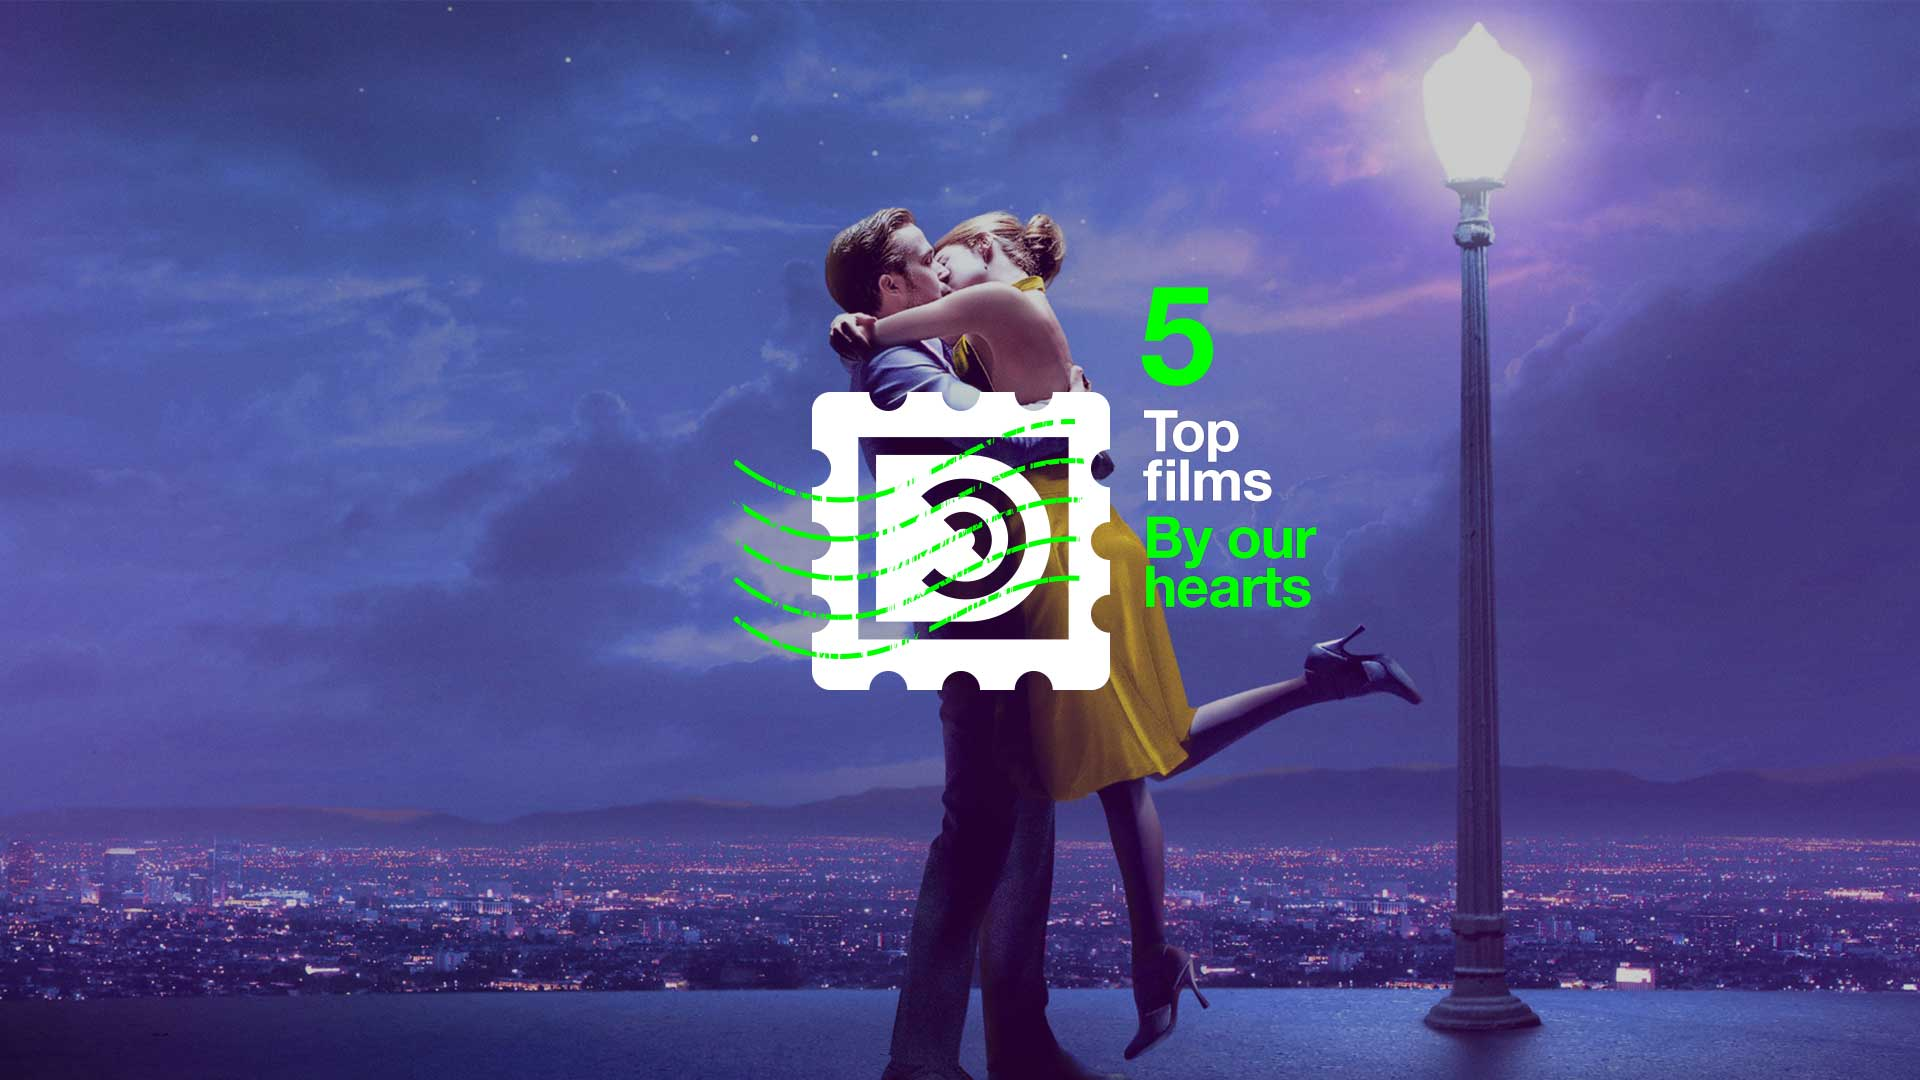
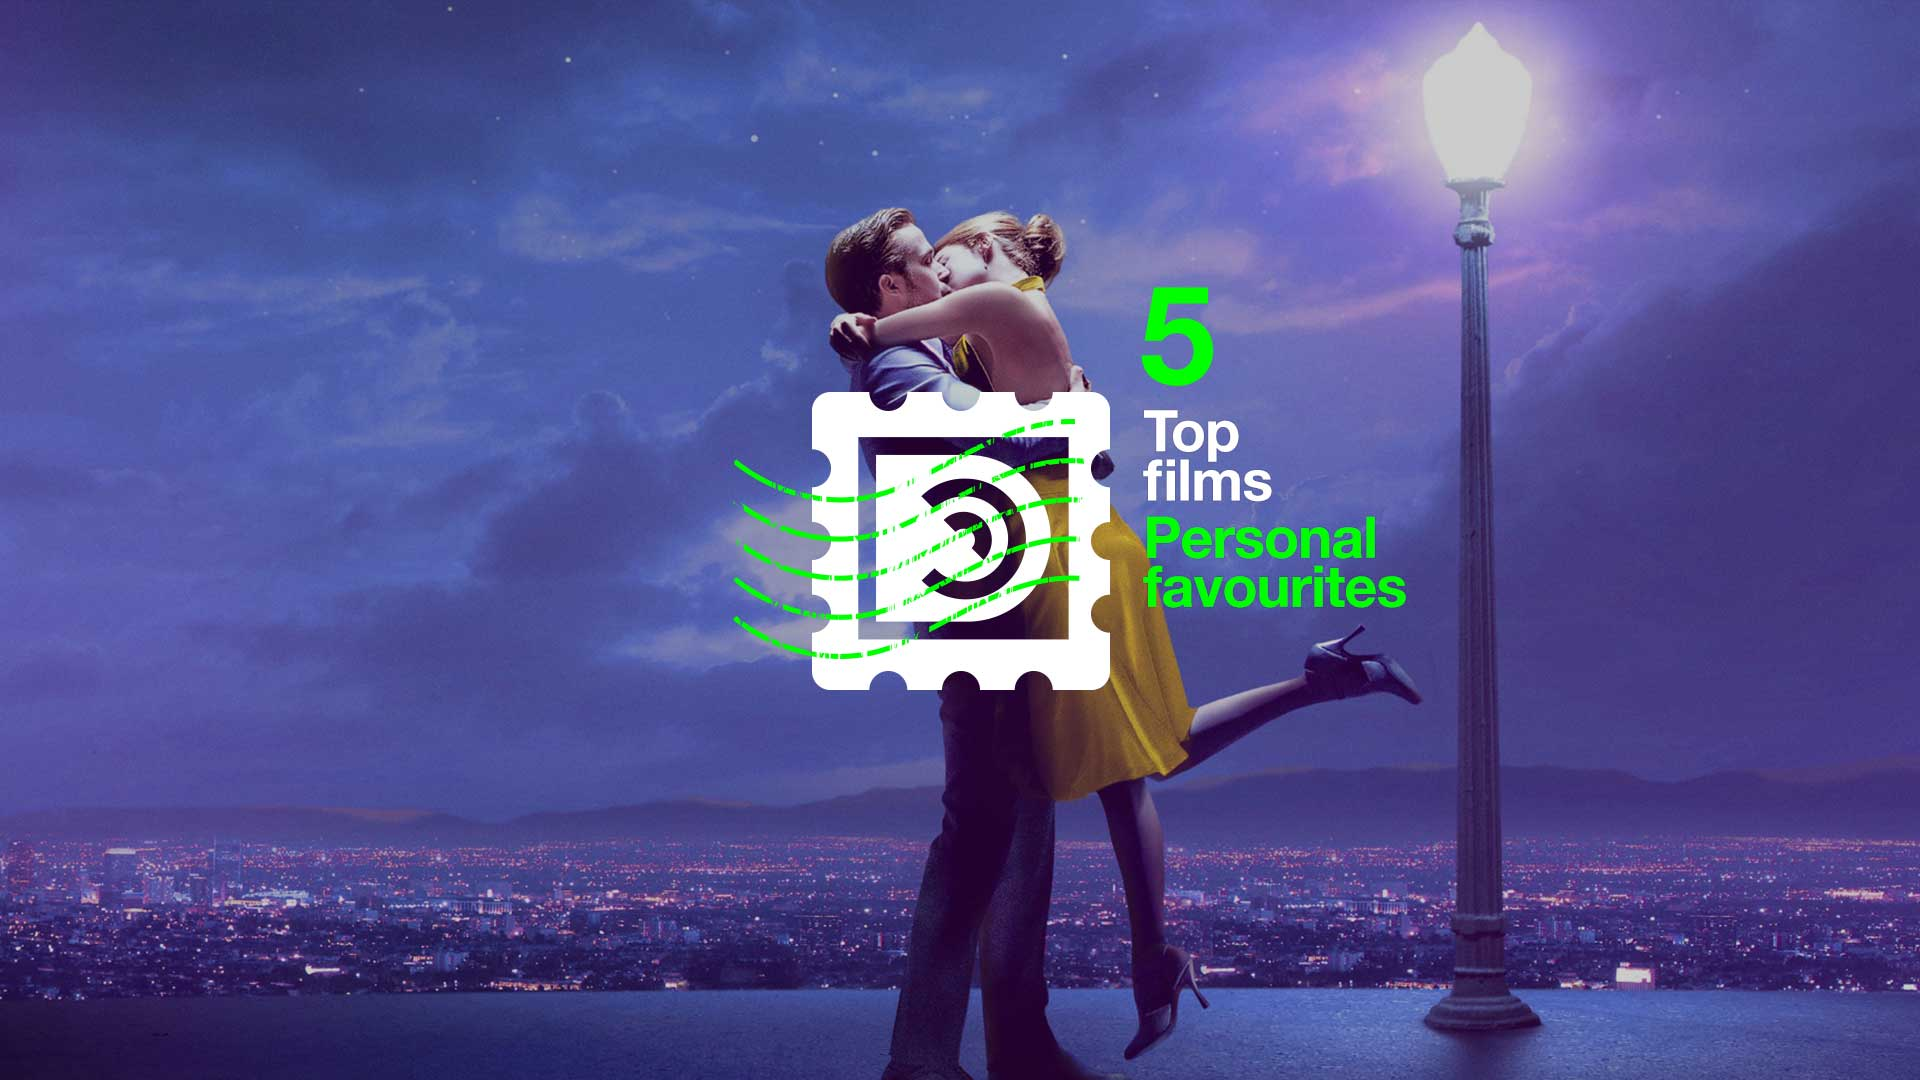
fix

Changed region(s): [[0.5938, 0.4889, 0.75, 0.5806]]

diff --git a/_includes/home/home-feature-5th-anniversary.html b/_includes/home/home-feature-5th-anniversary.html
@@ -34,7 +34,7 @@
                     </div>
                 </div>
                   <a href="/content/2017/4/20/top-five-reviews-by-our-hearts.html">
-	                <div id="home-feature-img" class="home-feature-img" aria-labelledby="Top Five Films By Our Heats" style="background-image: url('/assets/img/home/feature/5th-anniversary/top-five-films-by-our-hearts.jpg');"></div>
+	                <div id="home-feature-img" class="home-feature-img" aria-labelledby="Top Five Films: Personal Favourites" style="background-image: url('/assets/img/home/feature/5th-anniversary/top-five-films-personal favourites.jpg');"></div>
                   </a>
             </div>
           </section>

diff --git a/_posts/features/2017-04-20-top-five-reviews-by-our-hearts.md b/_posts/features/2017-04-20-top-five-reviews-by-our-hearts.md
@@ -2,8 +2,8 @@
 layout: feature
 published: true
 date: 2017-04-20 06:30:00
-image: top-five-films-by-our-hearts.jpg
-title: "Top 5: Top Films By Our Hearts"
+image: top-five-films-personal-favourites.jpg
+title: "Top 5: Top Films: Personal Favourites"
 addressee: "Film Lovers"
 excerpt: ""
 author: all
